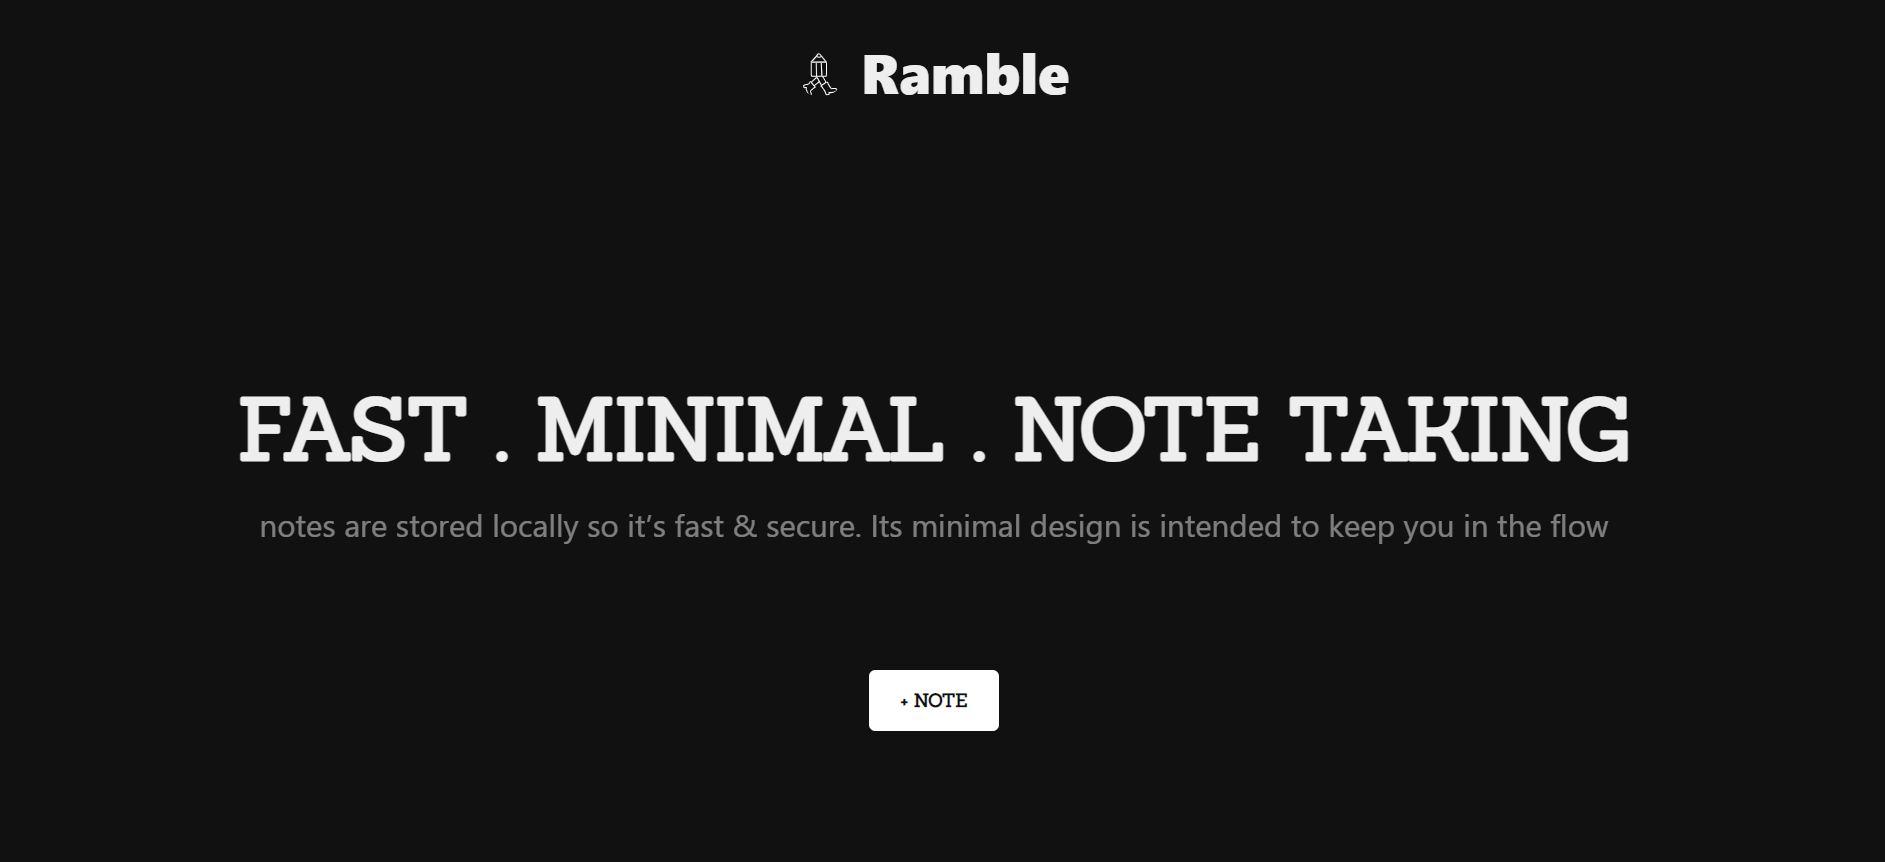
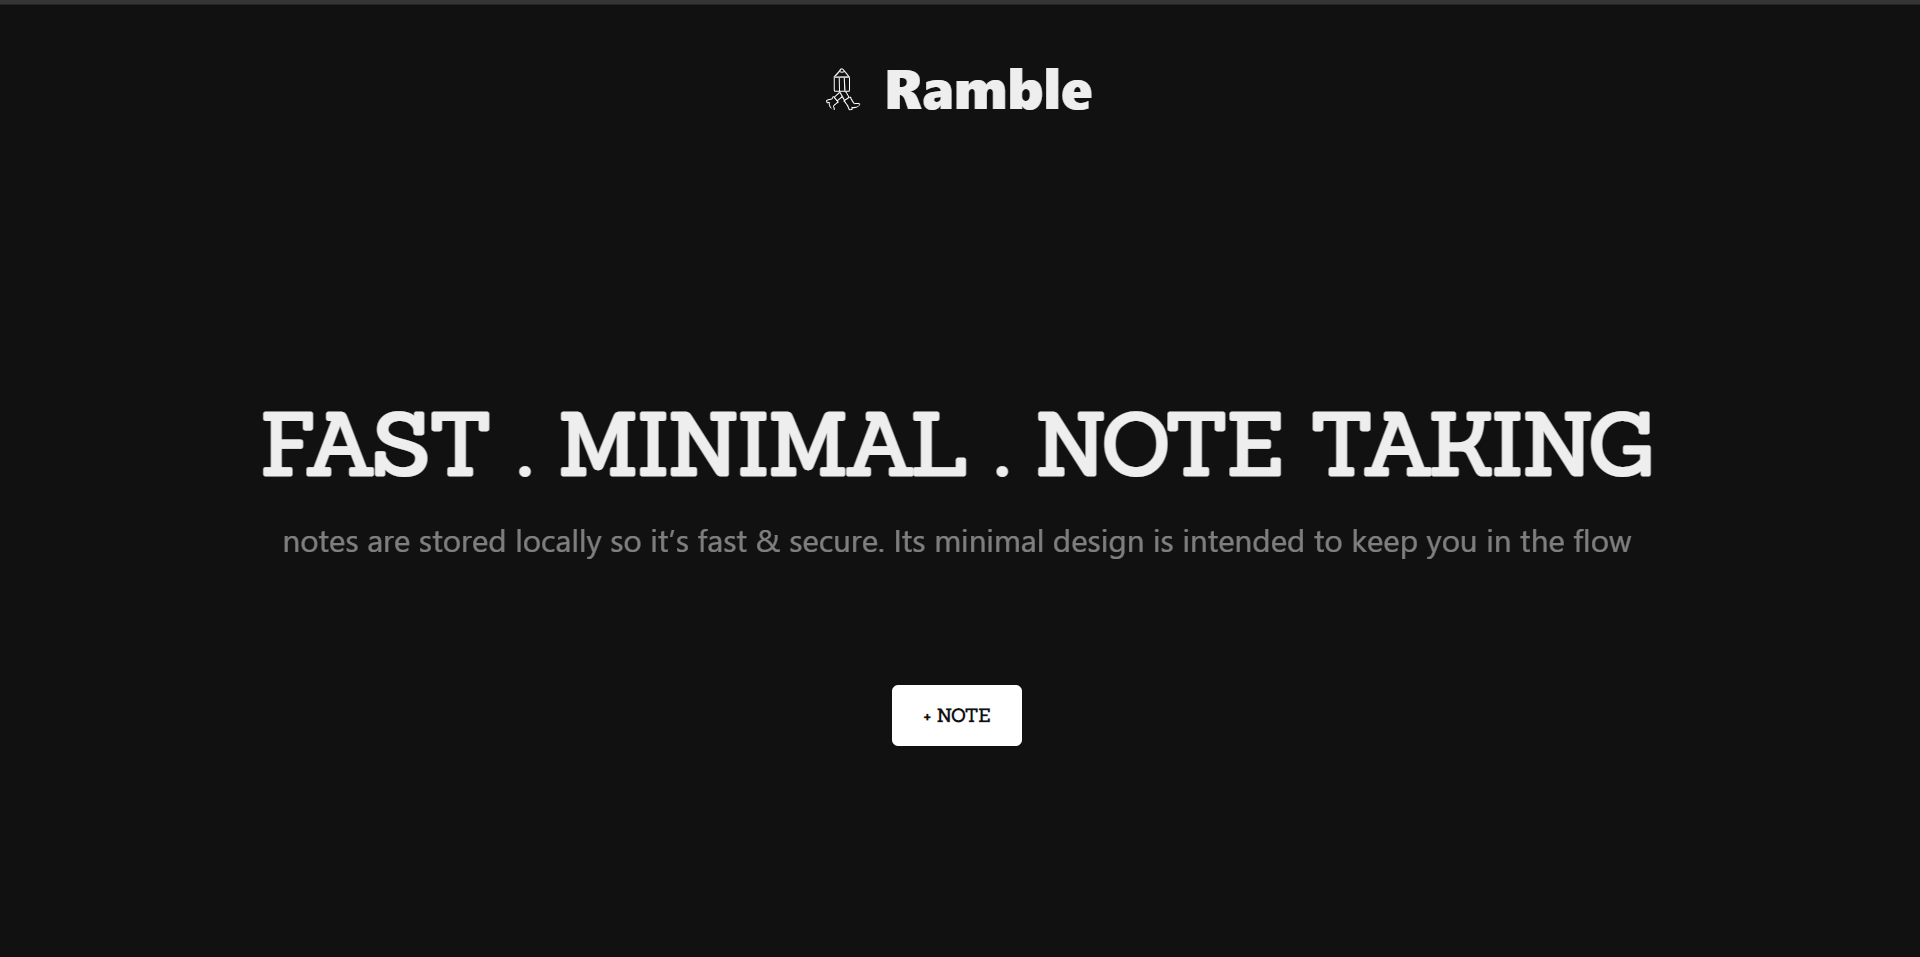
improved intro

diff --git a/src/components/Intro.js b/src/components/Intro.js
@@ -44,13 +44,12 @@ let Hero = styled.div`
 
 let Heading = styled.h1`
   width: 80%;
-  font-size: 69px;
+  font-size: 60px;
   text-align: center;
   margin-bottom: 15px;
-  font-family: Sanchez, Georgia, "Times New Roman", Times, serif;
+  font-family: "Playfair Display", Georgia, "Times New Roman", Times, serif;
   @media (max-width: 700px) {
-    font-size: 25px;
-
+    font-size: 20px;
     width: 90%;
   }
 `;
@@ -67,16 +66,32 @@ let HeroButton = styled.h1`
   font-size: 15px;
 `;
 
+let Circles = styled.div`
+  width: 100vw;
+  height: 100vw;
+  color: #fff;
+  border-radius: 100vw;
+  border: 1px solid;
+  position: absolute;
+  top: -25vw;
+  transform: ${({ scale }) => (scale ? `scale(${scale})` : `scale(1)`)};
+  opacity: ${({ opacity }) => (opacity ? opacity : 1)};
+
+  @media (max-width: 700px) {
+    display: none;
+  }
+`;
+
 let Description = styled.div`
   font-family: -apple-system, BlinkMacSystemFont, "Segoe UI", Roboto, Oxygen,
     Ubuntu, Cantarell, "Open Sans", "Helvetica Neue", sans-serif;
   width: 80%;
   text-align: center;
-  font-size: 25px;
+  font-size: 20px;
   opacity: 0.5;
 
   @media (max-width: 700px) {
-    font-size: 22px;
+    font-size: 17px;
     width: 90%;
   }
 `;
@@ -106,6 +121,10 @@ function Intro() {
           + NOTE
         </HeroButton>
       </Hero>
+
+      <Circles scale={0.7} opacity={0.2} />
+      <Circles scale={0.85} opacity={0.5} />
+      <Circles scale={1} opacity={0.7} />
     </Container>
   );
 }

diff --git a/public/index.html b/public/index.html
@@ -30,6 +30,11 @@
     <link rel="preconnect" href="https://fonts.gstatic.com" crossorigin />
 
     <link
+      href="https://fonts.googleapis.com/css2?family=Playfair+Display&display=swap"
+      rel="stylesheet"
+    />
+
+    <link
       href="https://fonts.googleapis.com/css2?family=Roboto:ital,wght@0,100;0,300;0,400;0,700;0,900;1,400;1,500;1,900&family=Sanchez&display=swap"
       rel="stylesheet"
     />
